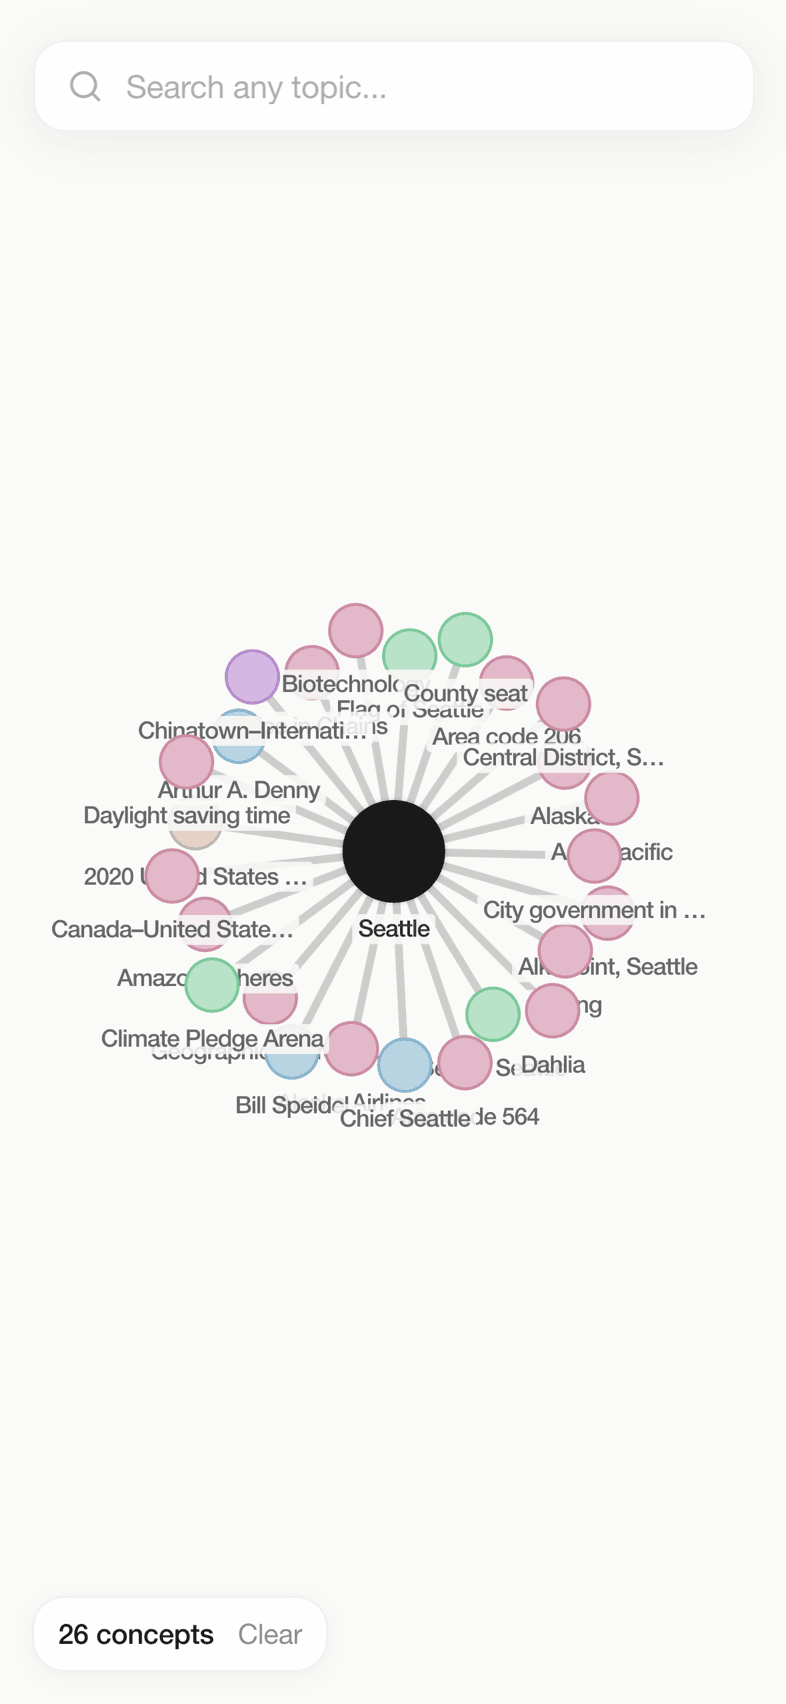
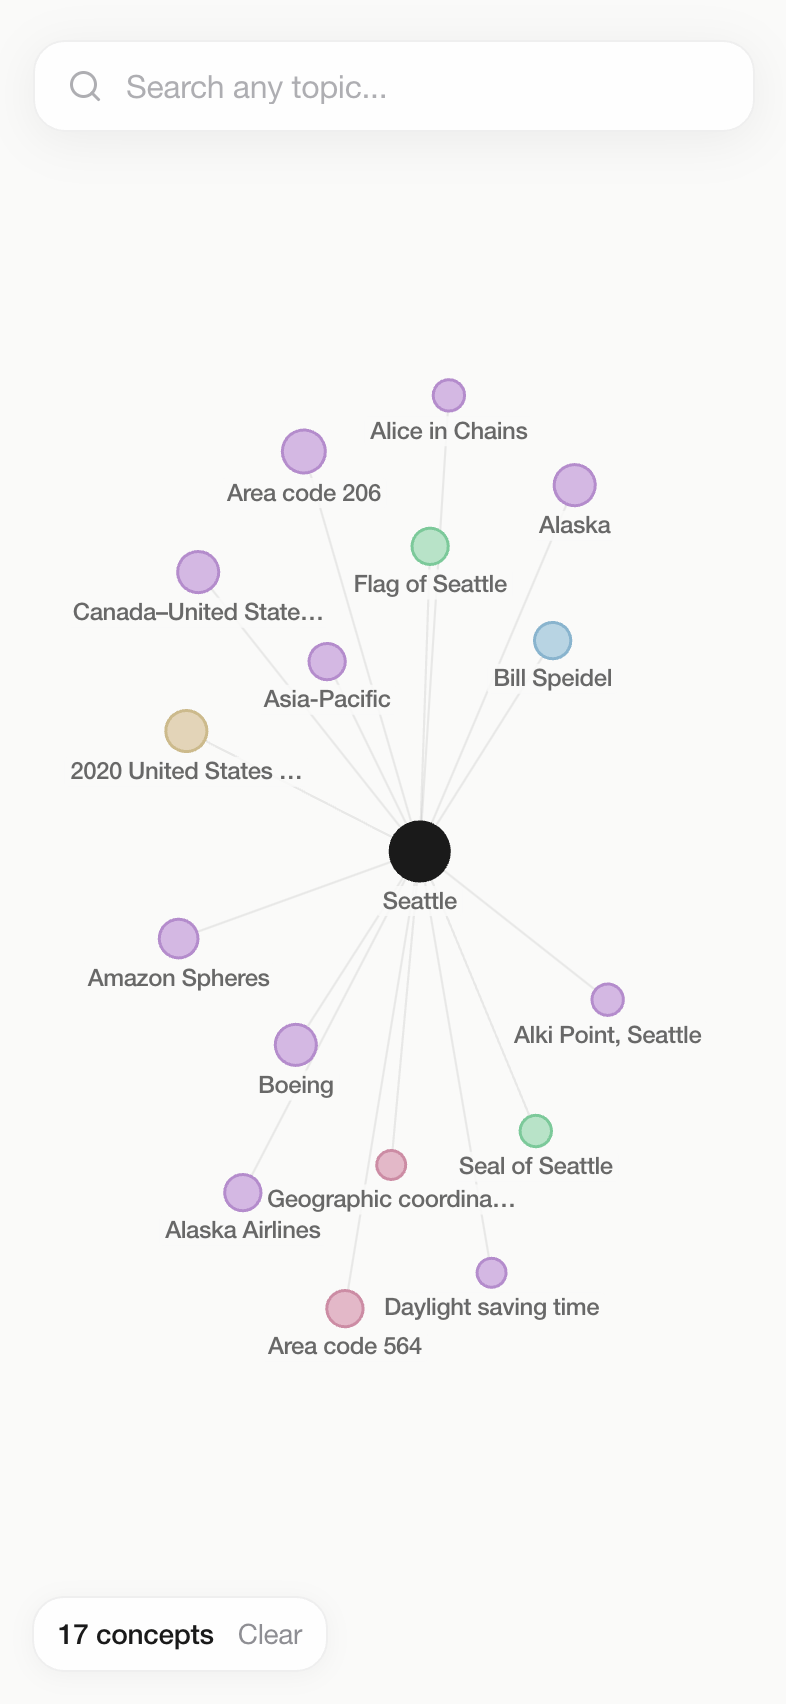
Graph: zoom-to-fit on settle, depth-based link distance, collide force, node radius from size, label policy by depth/zoom
Fixes the tight overlapping cluster on first load. Also fixes a null graphRef caused by next/dynamic not forwarding refs.

diff --git a/src/components/Graph.tsx b/src/components/Graph.tsx
@@ -1,14 +1,45 @@
 /* eslint-disable @typescript-eslint/no-explicit-any */
 "use client";
 
-import { useEffect, useRef, useState, useCallback, useMemo } from "react";
+import React, {
+  useEffect,
+  useRef,
+  useState,
+  useCallback,
+  useMemo,
+} from "react";
 import dynamic from "next/dynamic";
 import { GraphData, GraphNode } from "@/lib/types";
 import { getCategoryColor } from "@/lib/colors";
+import { forceCollide, forceX, forceY } from "d3-force";
 
-const ForceGraph2D = dynamic(() => import("react-force-graph-2d"), {
-  ssr: false,
-});
+// next/dynamic's LoadableComponent swallows `ref`, so the instance ref is
+// passed as a plain prop (`forwardedRef`) and attached inside the chunk.
+// Without this `graphRef` stays null and zoomToFit / d3Force never run.
+const ForceGraph2D = dynamic(
+  () =>
+    import("react-force-graph-2d").then((mod) => {
+      const FG = mod.default as any;
+      return function ForceGraphWithRef({
+        forwardedRef,
+        ...props
+      }: { forwardedRef: React.Ref<any> } & Record<string, any>) {
+        return <FG {...props} ref={forwardedRef} />;
+      };
+    }),
+  { ssr: false }
+);
+
+/**
+ * Visual radius (px at scale 1) from the API-assigned `size`:
+ * root 24 -> ~11, depth-1 12..18 -> ~5.5..8, depth-2 10..14 -> ~4.5..6.3,
+ * deeper 8..10 -> ~4..4.5.
+ */
+function nodeRadius(node: any): number {
+  const size = typeof node?.size === "number" ? node.size : 10;
+  if (node?.category === "root" || node?.depth === 0) return 11;
+  return Math.max(4, Math.min(8, size * 0.45));
+}
 
 interface GraphProps {
   data: GraphData;
@@ -19,6 +50,79 @@ interface GraphProps {
 export default function Graph({ data, onNodeClick, onNodeHover }: GraphProps) {
   const graphRef = useRef<any>(null);
   const [dimensions, setDimensions] = useState({ width: 0, height: 0 });
+  // Fit-to-view bookkeeping: fit once per new search / expand, never on tick.
+  const pendingFitRef = useRef(false);
+  const fitTimerRef = useRef<ReturnType<typeof setTimeout> | null>(null);
+
+  const fitKey = useMemo(() => {
+    const root = data.nodes.find((n) => n.depth === 0)?.id ?? "";
+    return `${root}::${data.nodes.length}`;
+  }, [data.nodes]);
+
+  const runFit = useCallback(() => {
+    if (!pendingFitRef.current) return;
+    const fg = graphRef.current;
+    if (!fg) return;
+    pendingFitRef.current = false;
+    if (fitTimerRef.current) {
+      clearTimeout(fitTimerRef.current);
+      fitTimerRef.current = null;
+    }
+    // Mobile: top search bar (~70px) and bottom badge (~56px) overlay the
+    // canvas, so leave more room; the bottom sheet only appears after a tap.
+    // Padding is uniform, so it must clear the tallest overlay: the floating
+    // search bar (~70px) plus a label row under the lowest node. Labels are
+    // not part of the fitted bounds, so phones get extra room on the sides.
+    const isMobile = typeof window !== "undefined" && window.innerWidth < 768;
+    fg.zoomToFit(400, isMobile ? 84 : 110);
+  }, []);
+
+  // Configure forces + schedule a fit whenever the graph content changes.
+  useEffect(() => {
+    pendingFitRef.current = true;
+    let cancelled = false;
+    let tries = 0;
+
+    function configure() {
+      if (cancelled) return;
+      const fg = graphRef.current;
+      if (!fg) {
+        if (tries++ < 120) requestAnimationFrame(configure);
+        return;
+      }
+      fg.d3Force("link")?.distance((link: any) => {
+        const sd = link.source?.depth ?? 0;
+        const td = link.target?.depth ?? 1;
+        const d = Math.min(sd, td);
+        return d === 0 ? 110 : d === 1 ? 70 : 50;
+      });
+      fg.d3Force("charge")?.strength(-320).distanceMax(600);
+      // Shape the cluster to the viewport: a portrait phone gets a tall
+      // ellipse (pull x in harder than y), landscape gets a wide one.
+      const portrait =
+        typeof window !== "undefined" && window.innerWidth < window.innerHeight;
+      fg.d3Force("x", forceX(0).strength(portrait ? 0.55 : 0.02));
+      fg.d3Force("y", forceY(0).strength(portrait ? 0.005 : 0.06));
+      fg.d3Force(
+        "collide",
+        forceCollide((node: any) => nodeRadius(node) + (portrait ? 22 : 14))
+      );
+      fg.d3ReheatSimulation();
+    }
+    configure();
+
+    // Fallback: if the engine has not stopped within ~1.5s, fit anyway.
+    fitTimerRef.current = setTimeout(runFit, 1500);
+
+    return () => {
+      cancelled = true;
+      if (fitTimerRef.current) {
+        clearTimeout(fitTimerRef.current);
+        fitTimerRef.current = null;
+      }
+    };
+    // eslint-disable-next-line react-hooks/exhaustive-deps
+  }, [fitKey]);
   const [hoveredNodeId, setHoveredNodeId] = useState<string | null>(null);
 
   // Connected link lookup for hover highlighting
@@ -80,8 +184,7 @@ export default function Graph({ data, onNodeClick, onNodeHover }: GraphProps) {
       const connected = isConnected(id);
       const dimmed = hoveredNodeId != null && !connected;
 
-      // Use smaller visual radii (node.size is in graph coords)
-      const baseR = category === "root" ? 8 : 5;
+      const baseR = nodeRadius(node);
       const r = hovered ? baseR + 1.5 : baseR;
       const alpha = dimmed ? 0.3 : 1;
 
@@ -120,11 +223,16 @@ export default function Graph({ data, onNodeClick, onNodeHover }: GraphProps) {
       }
 
       // Label — show selectively to avoid overlap:
-      //   - Root node: always
+      //   - Root and depth-1 nodes: always
       //   - Hovered or connected to hovered: always
-      //   - All others: only when zoomed in close (globalScale > 1.5)
+      //   - Deeper nodes: only when zoomed in (globalScale > 1.4)
       const isRoot = category === "root";
-      const showLabel = isRoot || hovered || (hoveredNodeId != null && connected) || globalScale > 1.5;
+      const showLabel =
+        isRoot ||
+        (node.depth ?? 1) <= 1 ||
+        hovered ||
+        (hoveredNodeId != null && connected) ||
+        globalScale > 1.4;
 
       if (showLabel) {
         const fontSize = Math.min(12 / globalScale, 14);
@@ -201,21 +309,26 @@ export default function Graph({ data, onNodeClick, onNodeHover }: GraphProps) {
 
   return (
     <ForceGraph2D
-      ref={graphRef}
+      forwardedRef={graphRef}
       graphData={data}
       width={dimensions.width}
       height={dimensions.height}
       backgroundColor="#FAFAF9"
       nodeCanvasObject={drawNode}
-      nodePointerAreaPaint={(node: any, color, ctx) => {
+      nodePointerAreaPaint={(node: any, color: string, ctx: CanvasRenderingContext2D) => {
         ctx.beginPath();
-        ctx.arc(node.x, node.y, 10, 0, Math.PI * 2);
+        ctx.arc(node.x, node.y, Math.max(10, nodeRadius(node) + 4), 0, Math.PI * 2);
         ctx.fillStyle = color;
         ctx.fill();
       }}
       linkCanvasObject={drawLink}
       onNodeClick={handleNodeClick}
       onNodeHover={handleNodeHover}
+      onEngineStop={runFit}
+      warmupTicks={40}
+      cooldownTime={4000}
+      d3AlphaDecay={0.04}
+      d3VelocityDecay={0.35}
       enablePanInteraction={true}
       enableZoomInteraction={true}
       enableNodeDrag={true}

diff --git a/README.md b/README.md
@@ -60,10 +60,11 @@ Graph.tsx (react-force-graph-2d, canvas)
 - **A 13-regex blacklist does most of the cleanup.** Bare years (`/^\d{1,4}$/`), ordinals like "3rd century", month names, "List of", disambiguation pages, ISO codes, `Wikipedia:`/`Category:`/`File:`/`Help:`/`Template:` namespaces, plus "United States" and "United Kingdom" because they link from nearly everything (`src/lib/filters.ts`).
 - **Category detection is 6 regexes over Wikipedia's own category names.** I pull up to 20 categories (`cllimit=20`), lowercase and join them, then test in order: person, place, event, science, art, organization; anything else is "concept", and any failure also falls back to "concept" (`src/lib/wikipedia.ts`, `detectCategory`). The 8 category colors (7 detected categories plus an unused `other`) and the near-black root are defined once in `src/lib/colors.ts`; the 8 category fills and strokes are mirrored under `theme.extend.colors.node` in `tailwind.config.ts`.
 - **Fan-out is wide but bounded.** One search is at most 3 + 2 x 25 = 53 Wikipedia requests in two parallel waves (the root's three, then two per surviving link), each with a 5000 ms `AbortController` timeout, and children use `Promise.allSettled` so one dead page never fails the graph (`src/lib/wikipedia.ts`, `TIMEOUT_MS`; `src/app/api/wiki/route.ts`). A `404` from Wikipedia becomes a "Topic not found" 404 from my route; everything else is a 500 with the message passed through.
-- **Link strength is computed but not yet a force.** The route assigns each link a strength from 0.9 down toward 0.5 by its position in the intro (`0.9 - (index / links.length) * 0.4`), and expansion links get a flat 0.6 (`src/app/api/wiki/route.ts`; `src/app/page.tsx`). Nothing in `Graph.tsx` feeds this into `d3-force` yet, and `d3-force` is in `package.json` without being imported. The layout is react-force-graph-2d's default charge, link and center forces. Wiring strength into `linkStrength` is the obvious next step.
-- **Labels are rationed, not hidden.** The root always has a label; everything else only labels when hovered, adjacent to the hovered node, or when zoom passes `globalScale > 1.5`. Label font is `min(12 / globalScale, 14)` px, text over 20 characters is cut to 19 plus an ellipsis, labels are skipped entirely once that size drops below 2 px, and each label sits on a translucent `rgba(250,250,249,0.85)` pill so it stays legible over links (`src/components/Graph.tsx`, `drawNode`).
-- **Hover dims the world.** Hovering sets non-adjacent nodes to 30% alpha, draws links at `rgba(0,0,0,0.18)` and 1.5 px when connected versus `0.07` and 0.8 px at rest, and `0.03` when dimmed. Node hit areas are a fixed 10-unit circle regardless of drawn radius, which makes small nodes easy to grab (`src/components/Graph.tsx`, `drawLink`, `nodePointerAreaPaint`).
-- **Node sizes are assigned but not drawn.** Every node carries a `size`: root 24, depth-1 nodes 12 to 18, depth-2 10 to 14, depth-3 and beyond 8 to 10, randomized within range (`src/app/api/wiki/route.ts`; `src/app/page.tsx`, `handleExpand`). `Graph.tsx` ignores it and draws the root at radius 8 and everything else at 5 (+1.5 on hover), so today all non-root nodes look the same size. Like `strength`, it is data waiting for a renderer.
+- **Link strength is computed but not yet a force.** The route assigns each link a strength from 0.9 down toward 0.5 by its position in the intro (`0.9 - (index / links.length) * 0.4`), and expansion links get a flat 0.6 (`src/app/api/wiki/route.ts`; `src/app/page.tsx`). Nothing in `Graph.tsx` feeds this into `d3-force` yet; the layout uses the tuned charge, link, collide and x/y forces described below, but every link has the same pull. Wiring strength into `linkStrength` is the obvious next step.
+- **Labels are rationed, not hidden.** The root and every depth-1 node always carry a label; deeper nodes only label when hovered, adjacent to the hovered node, or when zoom passes `globalScale > 1.4`. Label font is `min(12 / globalScale, 14)` px, text over 20 characters is cut to 19 plus an ellipsis, labels are skipped entirely once that size drops below 2 px, and each label sits on a translucent `rgba(250,250,249,0.85)` pill so it stays legible over links (`src/components/Graph.tsx`, `drawNode`).
+- **Hover dims the world.** Hovering sets non-adjacent nodes to 30% alpha, draws links at `rgba(0,0,0,0.18)` and 1.5 px when connected versus `0.07` and 0.8 px at rest, and `0.03` when dimmed. Node hit areas are the drawn radius plus 4 units, never below a 10-unit circle, which keeps small nodes easy to grab (`src/components/Graph.tsx`, `drawLink`, `nodePointerAreaPaint`).
+- **Node size encodes depth.** Every node carries a `size`: root 24, depth-1 nodes 12 to 18, depth-2 10 to 14, depth-3 and beyond 8 to 10, randomized within range (`src/app/api/wiki/route.ts`; `src/app/page.tsx`, `handleExpand`). `Graph.tsx` draws the root at radius 11 px and everything else at `size * 0.45` clamped to 4 to 8 px (+1.5 on hover), so depth-1 nodes read larger than their children. A `forceCollide` keyed to that radius keeps circles from stacking.
+- **The graph fits the viewport once per search or expand.** `next/dynamic` swallows refs, so the force-graph instance ref travels in as a `forwardedRef` prop. On every new root or node-count change the component re-tunes `d3-force` (link distance 110/70/50 by depth, charge -320, and an aspect-aware `forceX`/`forceY` that stretches the cluster tall on portrait phones and wide on desktop), then calls `zoomToFit(400, padding)` once, on `onEngineStop` or a 1.5 s fallback. Manual zoom and pan are left alone afterwards.
 
 No API keys. Wikipedia's REST and Action APIs are open; the only identification is an `Api-User-Agent: WikiGraph/1.0 (educational project)` header.
 
@@ -84,9 +85,9 @@ Working end to end: search, autocomplete, graph, info panel, expand, hover, URL 
 
 What I would do next, roughly in order:
 
-- Feed link `strength` into `d3-force` so intro position actually shapes the layout, and draw `node.size` so depth is visible.
+- Feed link `strength` into `d3-force` so intro position actually shapes the layout.
 - Cache `/api/wiki` responses at the edge; the same topics get searched repeatedly.
-- Dot-grid background and tuned charge/collision forces from the spec (`docs/SPEC.md`), never built.
+- Dot-grid background from the spec (`docs/SPEC.md`), never built.
 - Dark mode.
 
 The original build brief is in `docs/SPEC.md`.
